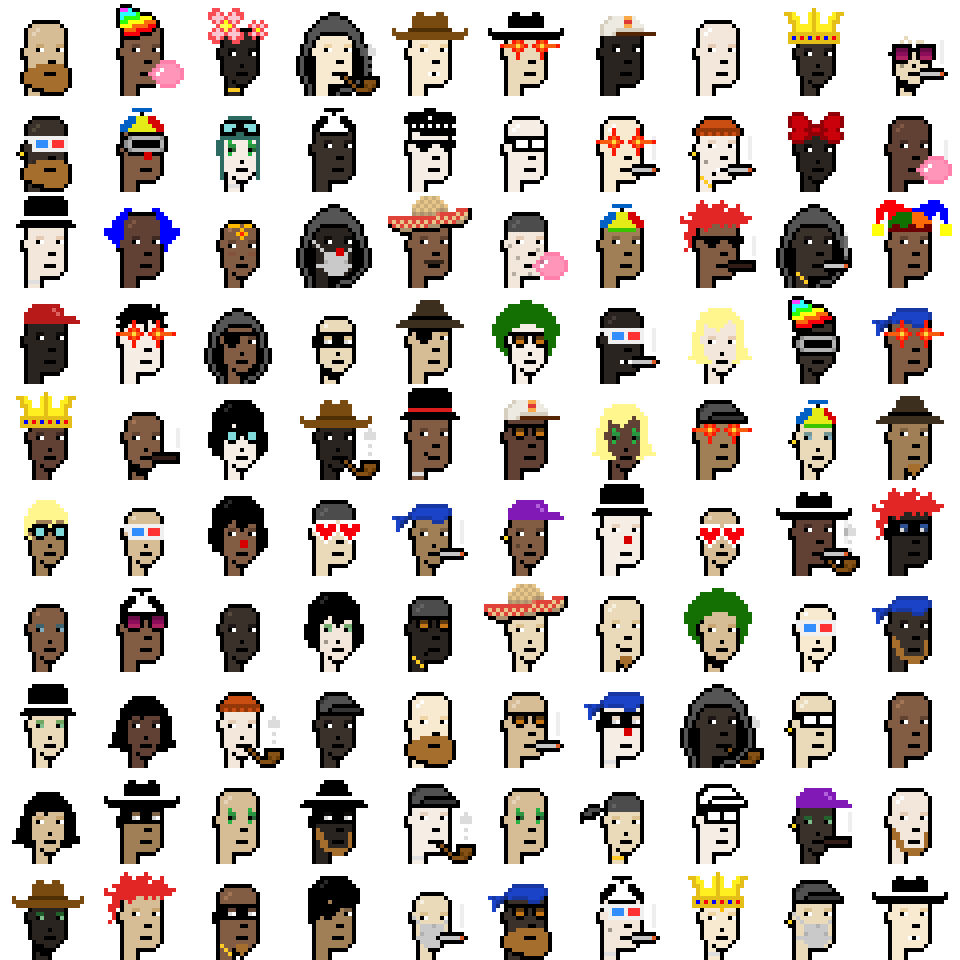
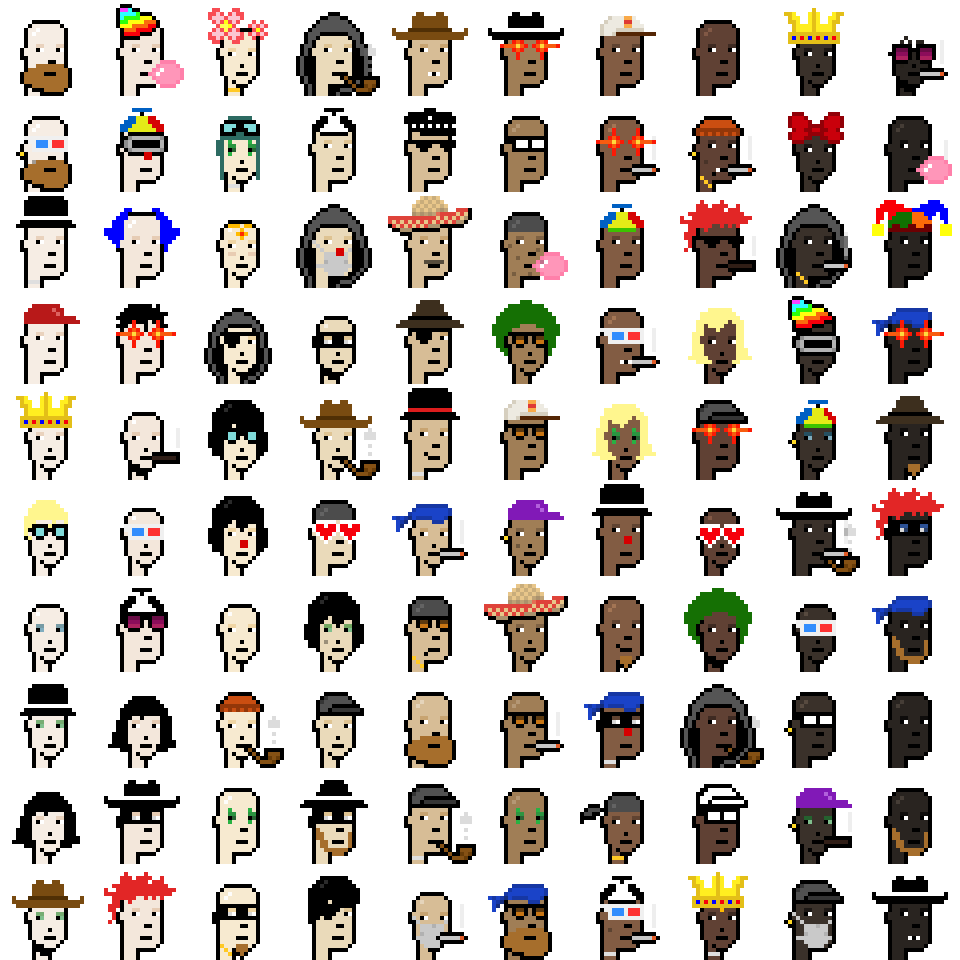
up

diff --git a/humans/humans.rb b/humans/humans.rb
@@ -7,51 +7,6 @@ require 'punks'
 
 
 
-HUMANS = {
-"Human Male 1"      =>"Male M10",
-"Human Male 2"      =>"Male M07",
-"Human Male 3"      =>"Male M04",
-"Human Male 4"      =>"Male M01",
-"Human Male Orange" =>"Male M09",
-"Human Male Blue"   =>"Male M08",
-"Human Male Gold"   =>"Male M06",
- "Robot Male"       =>"Male M05",
- "Demon Male"       =>"Male M03",
- "Vampire Male"     =>"Male M02",
- "Zombie Male"      =>"Male M09",
- "Zombie Ape Male"  =>"Male M08",
- "Orc Male"         =>"Male M07",
- "Mummy Male"       =>"Male M06",
- "Skeleton Male"    =>"Male M05",
- "Ape Male Gold"    =>"Male M04",
- "Ape Male Blue"    =>"Male M03",
- "Alien Male Gold"  =>"Male M02",
- "Alien Male Yellow"=>"Male M04",
- "Alien Male Green" =>"Male M05",
- "Alien Ape Male"   =>"Male M06",
-
- "Human Female 1"   =>"Female M10",
- "Human Female 2"   =>"Female M07",
- "Human Female 3"   =>"Female M04",
- "Human Female 4"   =>"Female M01",
- "Human Female Orange"=>"Female M09",
- "Human Female Purple"=>"Female M08",
- "Human Female Blue"=>"Female M06",
- "Human Female Gold"=>"Female M05",
- "Human Female Yellow"=>"Female M03",
- "Orc Female"=>"Female M02",
- "Zombie Female"=>"Female M09",
- "Mummy Female"=>"Female M08",
- "Demon Female"=>"Female M07",
- "Skeleton Female"=>"Female M06",
- "Vampire Female"=>"Female M05",
- "Ape Female"=>"Female M04",
- "Robot Female"=>"Female M03",
- "Alien Female Violet"=>"Female M02",
- "Alien Female Red Magenta"=>"Female M05",
-}
-
-
 EXCLUDE_FEMALE = ['Frown', 'Smile']
 EXCLUDE_MALE   = ['Demon Horns']
 
@@ -77,7 +32,7 @@ recs = read_csv( "../../ordinalpunks.starter/ordinalpunks.csv" )
 puts "    #{recs.size} record(s)"
 
 
-def rec_to_attributes( rec )
+def rec_to_attributes( rec, id: )   ## note: index starting at 0 (not 1)
   type =      rec['type']
   gender =    rec['gender']
   skin_tone = rec['skin_tone']
@@ -87,7 +42,9 @@ def rec_to_attributes( rec )
   base << " #{skin_tone}"       unless skin_tone.empty?
 
   ## convert to "classic" to "human"
-  base = HUMANS[ base ]
+  ## base = HUMANS[ base ]
+  monk_skin_tone =  'M%02d' % ((id % 10)+1)
+  base = "#{gender} #{monk_skin_tone}"
 
   accessories = rec['accessories'].split( '/' ).map { |acc| acc.strip }
 
@@ -107,7 +64,7 @@ ids = (0..99)
 pp ids
 
 ids.each do |id|
-  attributes = rec_to_attributes( recs[id] )
+  attributes = rec_to_attributes( recs[id], id: id )
   pp attributes
 
   punk = Punk::Image.generate( *attributes )

diff --git a/sandbox/base.rb b/sandbox/base.rb
@@ -1,0 +1,89 @@
+require 'punks'
+
+
+
+####
+#  read in ordinals metadata
+recs = read_csv( "../../ordinalpunks.starter/ordinalpunks.csv" )
+puts "    #{recs.size} record(s)"
+
+
+def rec_to_attributes( rec )
+  type =      rec['type']
+  gender =    rec['gender']
+  skin_tone = rec['skin_tone']
+
+  base = "#{type} #{gender}"
+  base << " #{skin_tone}"       unless skin_tone.empty?
+
+  accessories = rec['accessories'].split( '/' ).map { |acc| acc.strip }
+
+  attributes = [base] + accessories
+  attributes
+end
+
+
+
+stats = Hash.new( 0 )
+
+ids = (0..99)
+pp ids
+
+ids.each do |id|
+  attributes = rec_to_attributes( recs[id] )
+  pp attributes
+
+  stats[ attributes[0] ] += 1
+end
+
+puts "types:"
+pp stats
+
+
+puts "bye"
+
+__END__
+
+types:
+{"Robot Male"=>3,
+ "Human Male 2"=>7,
+ "Human Female 1"=>4,
+ "Demon Male"=>4,
+ "Ape Male Blue"=>1,
+ "Human Male 3"=>3,
+ "Human Male 1"=>7,
+ "Vampire Male"=>3,
+ "Human Female Orange"=>2,
+ "Human Female 3"=>6,
+ "Zombie Male"=>3,
+ "Orc Male"=>3,
+ "Human Female 4"=>3,
+ "Human Male Orange"=>3,
+ "Human Male 4"=>8,
+ "Zombie Ape Male"=>1,
+ "Alien Male Gold"=>2,
+ "Human Male Blue"=>3,
+ "Human Female 2"=>3,
+ "Mummy Male"=>2,
+ "Skeleton Male"=>2,
+ "Orc Female"=>2,
+ "Zombie Female"=>3,
+ "Mummy Female"=>2,
+ "Demon Female"=>3,
+ "Human Female Purple"=>1,
+ "Human Male Gold"=>1,
+ "Alien Ape Male"=>2,
+ "Human Female Blue"=>1,
+ "Alien Female Red Magenta"=>1,
+ "Skeleton Female"=>1,
+ "Vampire Female"=>2,
+ "Ape Female"=>1,
+ "Alien Male Yellow"=>1,
+ "Human Female Gold"=>1,
+ "Robot Female"=>1,
+ "Alien Female Violet"=>1,
+ "Alien Male Green"=>1,
+ "Human Female Yellow"=>1,
+ "Ape Male Gold"=>1}
+
+

diff --git a/attic/humans.rb b/attic/humans.rb
@@ -1,0 +1,43 @@
+HUMANS = {
+"Human Male 1"      =>"Male M10",
+"Human Male 2"      =>"Male M07",
+"Human Male 3"      =>"Male M04",
+"Human Male 4"      =>"Male M01",
+"Human Male Orange" =>"Male M09",
+"Human Male Blue"   =>"Male M08",
+"Human Male Gold"   =>"Male M06",
+ "Robot Male"       =>"Male M05",
+ "Demon Male"       =>"Male M03",
+ "Vampire Male"     =>"Male M02",
+ "Zombie Male"      =>"Male M09",
+ "Zombie Ape Male"  =>"Male M08",
+ "Orc Male"         =>"Male M07",
+ "Mummy Male"       =>"Male M06",
+ "Skeleton Male"    =>"Male M05",
+ "Ape Male Gold"    =>"Male M04",
+ "Ape Male Blue"    =>"Male M03",
+ "Alien Male Gold"  =>"Male M02",
+ "Alien Male Yellow"=>"Male M04",
+ "Alien Male Green" =>"Male M05",
+ "Alien Ape Male"   =>"Male M06",
+
+ "Human Female 1"   =>"Female M10",
+ "Human Female 2"   =>"Female M07",
+ "Human Female 3"   =>"Female M04",
+ "Human Female 4"   =>"Female M01",
+ "Human Female Orange"=>"Female M09",
+ "Human Female Purple"=>"Female M08",
+ "Human Female Blue"=>"Female M06",
+ "Human Female Gold"=>"Female M05",
+ "Human Female Yellow"=>"Female M03",
+ "Orc Female"=>"Female M02",
+ "Zombie Female"=>"Female M09",
+ "Mummy Female"=>"Female M08",
+ "Demon Female"=>"Female M07",
+ "Skeleton Female"=>"Female M06",
+ "Vampire Female"=>"Female M05",
+ "Ape Female"=>"Female M04",
+ "Robot Female"=>"Female M03",
+ "Alien Female Violet"=>"Female M02",
+ "Alien Female Red Magenta"=>"Female M05",
+}
